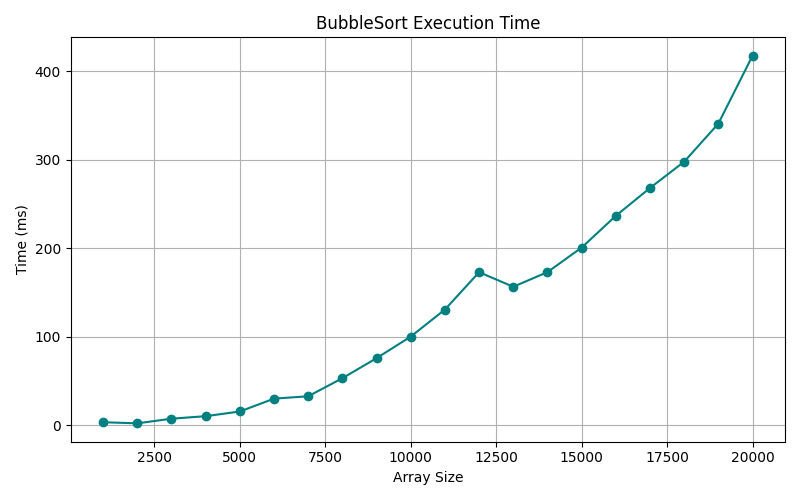
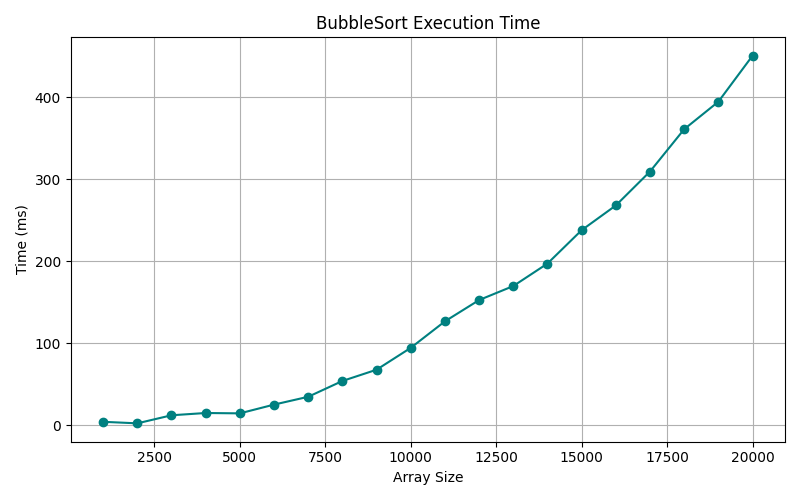
fix/ tabela medias

diff --git a/python/graphGenerator.py b/python/graphGenerator.py
@@ -7,15 +7,21 @@ graph_dir = '../data/graphs'
 os.makedirs(graph_dir, exist_ok=True)
 
 df = pd.read_csv(csv_file, sep=';')
-
 df['Time(ms)'] = df['Time(ms)'].str.replace(',', '.').astype(float)
-
 df.rename(columns={'Time(ms)': 'Time_ms'}, inplace=True)
 
-algorithms = df['Algorithm'].unique()
+mean_20k = df[df['Size'] == 20000].groupby('Algorithm')['Time_ms'].mean().reset_index()
+mean_20k.to_csv(os.path.join(graph_dir, 'mean_times_20000.csv'), index=False)
+print("Tabela de médias salva em 'mean_times_20000.csv'")
+
+df_filtered = df[(df['Size'] >= 1000) & (df['Size'] <= 20000)]
+
+algorithms = df_filtered['Algorithm'].unique()
 
 for algorithm in algorithms:
-    algo_df = df[df['Algorithm'] == algorithm]
+    algo_df = df_filtered[df_filtered['Algorithm'] == algorithm]
+
+    algo_df = algo_df.groupby('Size')['Time_ms'].mean().reset_index()
 
     plt.figure(figsize=(8, 5))
     plt.plot(algo_df['Size'], algo_df['Time_ms'], marker='o', color='teal')
@@ -28,18 +34,18 @@ for algorithm in algorithms:
     plt.savefig(os.path.join(graph_dir, f'{algorithm}_execution_time.png'))
     plt.close()
 
-pivot_df = df.pivot(index='Size', columns='Algorithm', values='Time_ms')
+pivot_df = df_filtered.groupby(['Size', 'Algorithm'])['Time_ms'].mean().unstack()
 
 plt.figure(figsize=(10, 6))
 for algorithm in pivot_df.columns:
     plt.plot(pivot_df.index, pivot_df[algorithm], marker='o', label=algorithm)
 
-plt.title('Execution Time Comparison - All Algorithms')
+plt.title('Execution Time Comparison (1000 to 20000)')
 plt.xlabel('Array Size')
 plt.ylabel('Time (ms)')
 plt.legend()
 plt.grid(True)
 plt.tight_layout()
 
-plt.savefig(os.path.join(graph_dir, 'all_algorithms.png'))
+plt.savefig(os.path.join(graph_dir, 'all_algorithms_filtered.png'))
 plt.show()

diff --git a/java/Main.java b/java/Main.java
@@ -26,6 +26,14 @@ public class Main {
                 benchmarkSort("MergeSort", baseArray, writer);
                 benchmarkSort("QuickSort", baseArray, writer);
             }
+            for (int i = 1; i <= 4; i++) {
+                int size = 20000;
+                int[] baseArray = generateRandomArray(size);
+
+                benchmarkSort("BubbleSort", baseArray, writer);
+                benchmarkSort("MergeSort", baseArray, writer);
+                benchmarkSort("QuickSort", baseArray, writer);
+            }
 
             System.out.println("CSV saved to: " + outputPath);
         } catch (IOException e) {
